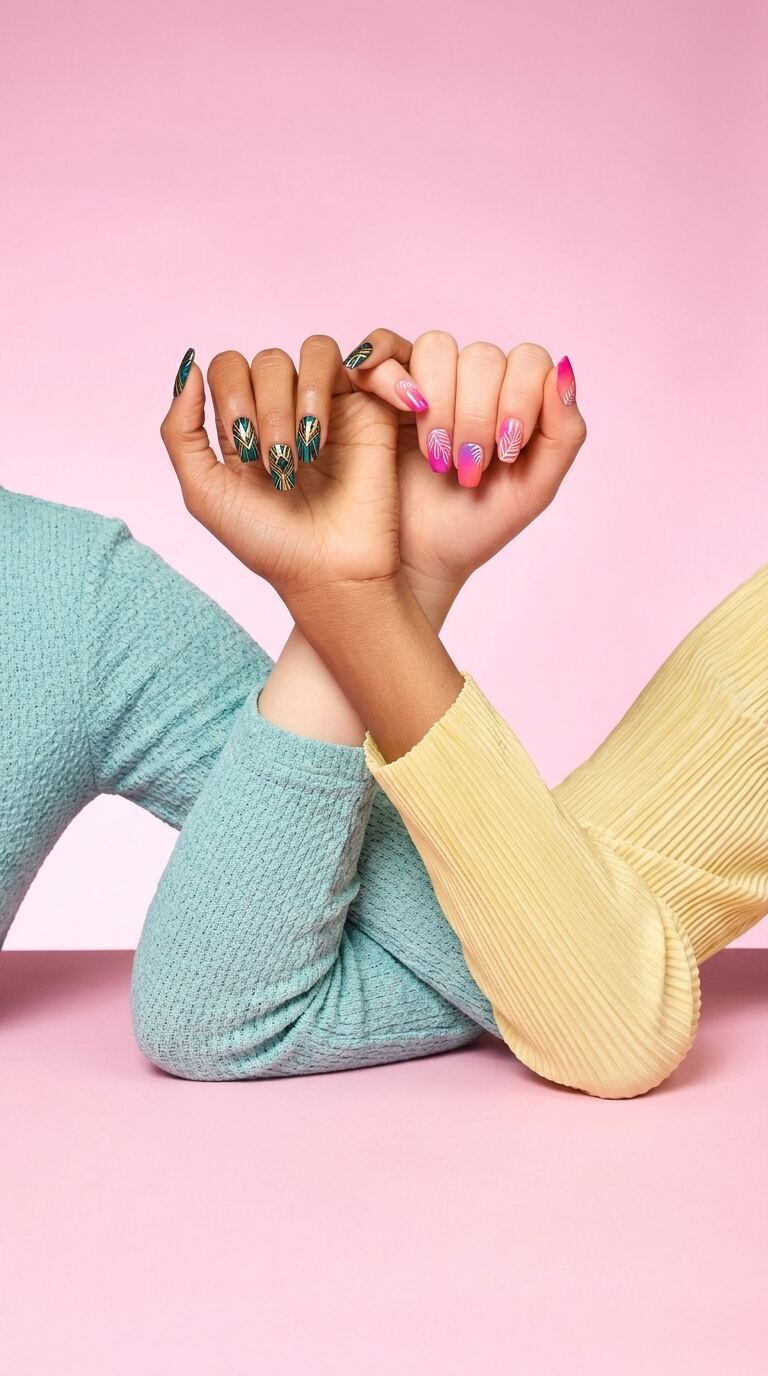
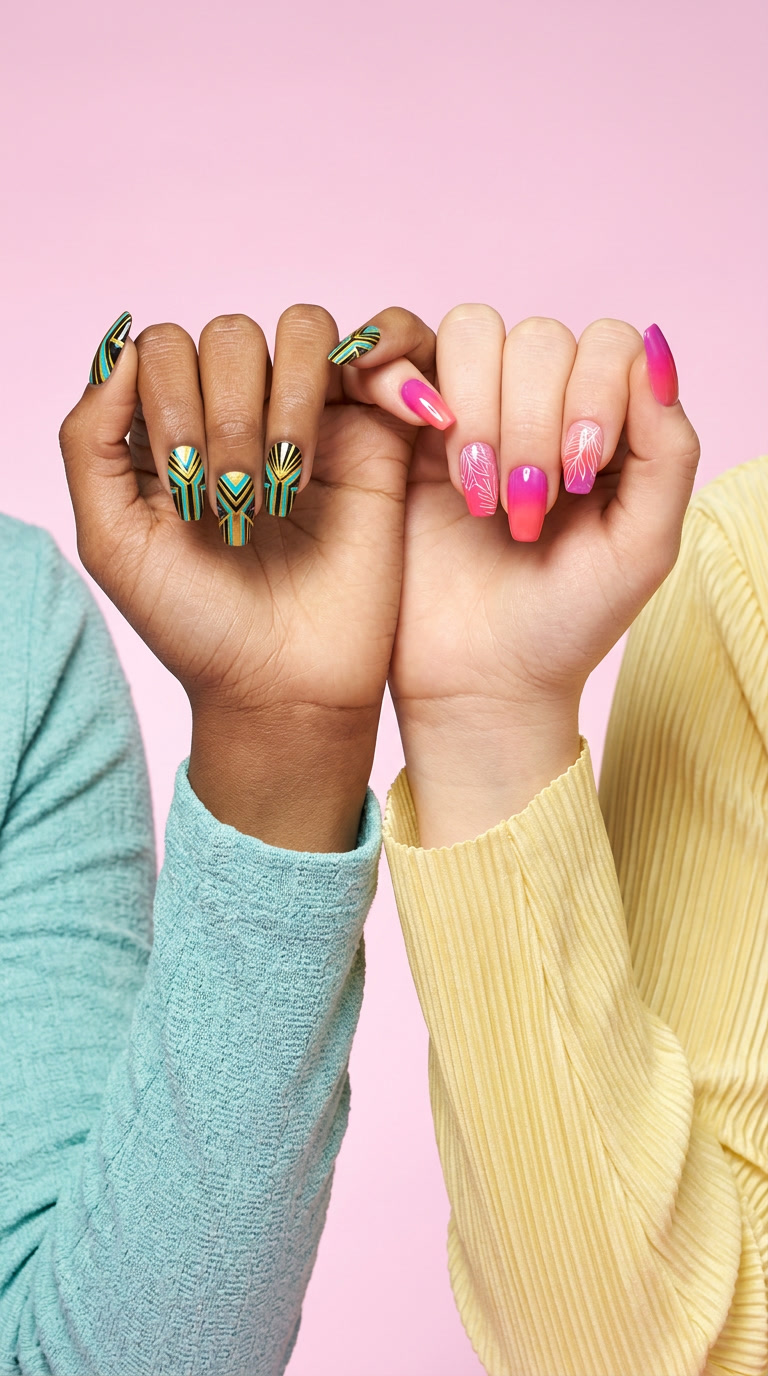
Update salon site content and assets

diff --git a/src/components/sections/Footer.tsx b/src/components/sections/Footer.tsx
@@ -5,11 +5,11 @@ import { useToast } from "@/hooks/use-toast";
 type Item = { label: string; href: string };
 const cols: { t: string; l: Item[] }[] = [
   { t: "Services", l: [
-    { label: "Russian Manicure", href: "#categories" },
-    { label: "Gel-X & Extensions", href: "#categories" },
-    { label: "Dip Powder", href: "#categories" },
-    { label: "Hard-Gel", href: "#categories" },
-    { label: "Pedicures", href: "#categories" },
+    { label: "Russian Manicure", href: "https://www.vagaro.com/deevanailboutique/services" },
+    { label: "Gel-X & Extensions", href: "https://www.vagaro.com/deevanailboutique/services" },
+    { label: "Dip Powder", href: "https://www.vagaro.com/deevanailboutique/services" },
+    { label: "Hard-Gel", href: "https://www.vagaro.com/deevanailboutique/services" },
+    { label: "Pedicures", href: "https://www.vagaro.com/deevanailboutique/services" },
     { label: "Gift Cards", href: "https://www.vagaro.com/deevanailboutique" },
   ]},
   { t: "Visit", l: [
@@ -19,19 +19,10 @@ const cols: { t: string; l: Item[] }[] = [
     { label: "Parking", href: "#visit" },
     { label: "Contact", href: "#visit" },
   ]},
-  { t: "Studio", l: [
-    { label: "Our Story", href: "#story" },
-    { label: "Non-Toxic Products", href: "#story" },
-    { label: "Sanitation", href: "#story" },
-    { label: "Press", href: "#" },
-    { label: "Careers", href: "#" },
-  ]},
   { t: "Info", l: [
     { label: "Pricing", href: "#pricing" },
-    { label: "Aftercare", href: "#" },
     { label: "Privacy Policy", href: "/privacy" },
     { label: "Terms of Use", href: "/terms" },
-    { label: "Accessibility", href: "#" },
   ]},
 ];
 
@@ -43,42 +34,7 @@ export const Footer = () => {
   return (
     <footer className="bg-secondary text-primary px-6 lg:px-12 pt-16 pb-10">
       <div className="mx-auto max-w-[1600px]">
-        {/* Newsletter strip */}
-        <div
-          id="newsletter"
-          className="border-y border-border py-10 mb-14 grid md:grid-cols-2 gap-6 md:gap-10 items-center"
-        >
-          <div>
-            <p className="text-xs uppercase tracking-[0.25em] text-brand-deep mb-2">Stay in touch</p>
-            <h3 className="font-serif text-2xl md:text-3xl leading-tight">
-              Get $15 off your first visit.
-            </h3>
-          </div>
-          <form
-            onSubmit={(e) => {
-              e.preventDefault();
-              toast({ title: "Welcome to DeeVa", description: "Check your inbox for your $15-off code." });
-              setEmail("");
-            }}
-            className="flex border-b border-primary/40 focus-within:border-primary transition"
-          >
-            <input
-              type="email"
-              required
-              value={email}
-              onChange={(e) => setEmail(e.target.value)}
-              placeholder="Your email"
-              aria-label="Email for newsletter"
-              className="flex-1 bg-transparent py-3 px-1 placeholder:text-muted-foreground outline-none text-primary"
-            />
-            <button
-              type="submit"
-              className="text-xs tracking-[0.25em] uppercase px-4 text-brand-deep hover:text-brand transition"
-            >
-              Subscribe →
-            </button>
-          </form>
-        </div>
+
 
         {/* Columns */}
         <div className="grid lg:grid-cols-5 lg:gap-12 mb-12">
@@ -91,7 +47,7 @@ export const Footer = () => {
               Premier nail boutique in Chicago’s West Loop. Non-toxic products. Walk-ins welcome.
             </p>
             <div className="flex gap-4 mt-6">
-              <a href="https://instagram.com/deeva.nailboutique" target="_blank" rel="noopener noreferrer" aria-label="Instagram" className="hover:opacity-60 transition">
+              <a href="https://www.instagram.com/deeva_nailboutique/" target="_blank" rel="noopener noreferrer" aria-label="Instagram" className="hover:opacity-60 transition">
                 <Instagram className="w-5 h-5" />
               </a>
               <a href="#" aria-label="Facebook" className="hover:opacity-60 transition"><Facebook className="w-5 h-5" /></a>

diff --git a/src/components/sections/Header.tsx b/src/components/sections/Header.tsx
@@ -1,6 +1,8 @@
 import { Phone, Menu, X, Instagram } from "lucide-react";
 import { useEffect, useState } from "react";
 import { createPortal } from "react-dom";
+import logoBlack from "@/assets/logos/Logo-black.webp";
+import logoWhite from "@/assets/logos/Logo-white.webp";
 
 const PHONE_DISPLAY = "(312) 841-7587";
 const PHONE_HREF = "tel:[phone redacted]";
@@ -74,14 +76,14 @@ export const Header = () => {
         {/* Center col — logo */}
         <a
           href="/"
-          className="flex flex-col items-center justify-self-center leading-none [text-shadow:0_1px_2px_rgba(0,0,0,0.35)]"
+          className="flex items-center justify-self-center leading-none"
+          aria-label="DeeVa Nail Boutique"
         >
-          <span className="font-serif font-bold text-[2.25rem] lg:text-[3rem] tracking-[0.15em] leading-none">
-            DeeVa
-          </span>
-          <span className="text-[9px] lg:text-[11px] tracking-[0.4em] uppercase opacity-80 mt-1">
-            Nail Boutique
-          </span>
+          <img
+            src={open || scrolled ? logoBlack : logoWhite}
+            alt="DeeVa Nail Boutique"
+            className="h-10 w-auto lg:h-12"
+          />
         </a>
 
         {/* Right col */}
@@ -91,6 +93,19 @@ export const Header = () => {
             className="hidden xl:inline-flex items-center px-5 py-2.5 rounded-full bg-brand text-brand-foreground hover:bg-brand-deep transition text-xs tracking-[0.25em] uppercase focus-visible:outline-none focus-visible:ring-2 focus-visible:ring-brand focus-visible:ring-offset-2"
           >
             Book now
+          </a>
+          <a
+            href="https://www.vagaro.com/deevanailboutique"
+            target="_blank"
+            rel="noopener noreferrer"
+            className={
+              `hidden xl:inline-flex items-center px-5 py-2.5 rounded-full transition text-xs tracking-[0.25em] uppercase focus-visible:outline-none focus-visible:ring-2 focus-visible:ring-offset-2 ` +
+              (open || scrolled
+                ? 'bg-white text-brand border border-brand hover:bg-brand hover:text-brand-foreground focus-visible:ring-brand'
+                : 'border border-white text-white hover:bg-white hover:text-brand focus-visible:ring-white')
+            }
+          >
+            Gift Card
           </a>
           <a
             href={PHONE_HREF}
@@ -155,6 +170,15 @@ export const Header = () => {
                 Book now
               </a>
               <a
+                href="https://www.vagaro.com/deevanailboutique"
+                target="_blank"
+                rel="noopener noreferrer"
+                onClick={() => setOpen(false)}
+                className="inline-flex items-center justify-center px-5 py-3 rounded-full border border-brand text-brand hover:bg-brand hover:text-brand-foreground transition text-xs tracking-[0.25em] uppercase"
+              >
+                Gift Card
+              </a>
+              <a
                 href={PHONE_HREF}
                 className="inline-flex items-center justify-center gap-2 px-5 py-3 rounded-full border border-primary text-primary hover:bg-primary hover:text-primary-foreground transition text-sm"
               >
@@ -162,14 +186,14 @@ export const Header = () => {
                 {PHONE_DISPLAY}
               </a>
               <a
-                href="https://instagram.com/deeva.nailboutique"
+                href="https://www.instagram.com/deeva_nailboutique/"
                 target="_blank"
                 rel="noopener noreferrer"
                 aria-label="Instagram"
                 className="inline-flex items-center justify-center gap-2 px-5 py-3 rounded-full border border-border text-primary hover:bg-secondary transition text-xs tracking-[0.25em] uppercase"
               >
                 <Instagram className="w-4 h-4" />
-                @deeva.nailboutique
+                @deeva_nailboutique
               </a>
             </div>
           </aside>

diff --git a/src/components/sections/GiftCard.tsx b/src/components/sections/GiftCard.tsx
@@ -1,0 +1,36 @@
+import giftCardImage from "@/assets/deeva-giftcard.webp";
+
+const GIFT_CARD_URL = "https://www.vagaro.com/deevanailboutique";
+
+export const GiftCard = () => (
+  <section className="px-6 py-20 lg:px-12 lg:py-28 bg-secondary/20">
+    <div className="mx-auto max-w-[1600px]">
+      <div className="mb-12 text-center lg:mb-14">
+        <p className="mb-3 text-xs uppercase tracking-[0.25em] text-brand-deep">Gift card</p>
+        <h2 className="font-serif text-4xl tracking-tight text-primary md:text-5xl lg:text-6xl">
+          A little extra for every gift.
+        </h2>
+        <div className="mt-5 flex flex-col items-center gap-1">
+          <div className="mt-2 text-xs md:text-sm text-muted-foreground font-normal">
+            <span className="block">Choose your gift card and get up to <span className="text-brand-deep font-semibold">15% bonus</span> for your loved ones.</span>
+          </div>
+        </div>
+      </div>
+
+      <a
+        href={GIFT_CARD_URL}
+        target="_blank"
+        rel="noopener noreferrer"
+        className="group mx-auto block max-w-2xl overflow-hidden rounded-xl bg-background shadow-xl transition-transform duration-300 hover:-translate-y-1"
+        aria-label="Open DeeVa gift card page on Vagaro"
+      >
+        <img
+          src={giftCardImage}
+          alt="DeeVa Nail Boutique gift card"
+          className="h-auto w-full transition-transform duration-700 group-hover:scale-[1.02]"
+          loading="lazy"
+        />
+      </a>
+    </div>
+  </section>
+);

diff --git a/src/components/sections/Testimonials.tsx b/src/components/sections/Testimonials.tsx
@@ -1,9 +1,22 @@
 import { useEffect, useState } from "react";
 
 const quotes = [
-  { q: "Cleanest manicure I’ve had in Chicago. Three weeks in and still flawless.", a: "Elena S., West Loop" },
-  { q: "The Russian manicure here is on another level — calm space, perfect shape.", a: "Marta L., River North" },
-  { q: "My new go-to for Gel-X. Beautiful studio, kind team, zero rush.", a: "Anya P., Fulton Market" },
+  {
+    q: "My first time here. I must say this is the first time in a very very long time that I have been fully satisfied with a manicure. First of the studio is welcoming and very clean. Aida was brilliantly meticulous. I didn't feel rushed at all like most other places and the end result was fabulous. Money very well spent. Ladies dont waste your time and money going elsewhere. This is the place you need to be if you enjoy pampering yourself.",
+    a: "Lauren J · 5 stars · 3 months ago"
+  },
+  {
+    q: "Love my girl Aida! Been going to her for over a year and I always leave satisfied. I usually get the builder gel and my nails last 3+ weeks and they never crack or chip. While they were under construction I went to another salon & paid DOUBLE the price for a builder gel & a pedicure. Safe to say I am so happy they’re open up again!",
+    a: "Anjelica Jauregui · 5 stars · 2 months ago"
+  },
+  {
+    q: "I LOVED IT!! it was exactly what I asked for and Aiza was very friendly and welcoming about my suggestions and made changes without any hesitation. These look better than the ones I had before (same red cat eye ones) but this one matches my skin tone perfectly. You should check them out!",
+    a: "Sonika M J · 5 stars · 2 months ago"
+  },
+  {
+    q: "My nails have never been so healthy or this long, and it's all thanks to Aiza! It's honestly been a game changer. I will never go back to acrylic nails. Hard gel is 100% the way to go. In my picture, those are my natural nails - no nail extensions! That's freaking awesome! I've had 3 sessions so far with Aiza. I'm so glad I found her! I will say it can be pricey, BUT they last a really long time and it's so much better than acrylic. Great customer service, as well!",
+    a: "Zhibek Almaz · 5 stars · 2 months ago"
+  },
 ];
 
 export const Testimonials = () => {
@@ -16,7 +29,7 @@ export const Testimonials = () => {
     <section id="reviews" className="py-24 lg:py-32 px-6 bg-accent">
       <div className="mx-auto max-w-3xl text-center">
         <p className="text-xs uppercase tracking-[0.25em] text-accent-foreground mb-8">Loved by you</p>
-        <blockquote key={i} className="font-serif text-3xl md:text-4xl lg:text-5xl leading-[1.2] text-accent-foreground text-balance animate-fade-in">
+        <blockquote key={i} className="font-serif text-xl md:text-2xl lg:text-3xl leading-[1.2] text-accent-foreground text-balance animate-fade-in">
           “{quotes[i].q}”
         </blockquote>
         <p className="mt-8 text-xs uppercase tracking-[0.25em] text-accent-foreground">{quotes[i].a}</p>

diff --git a/src/components/sections/InstagramGrid.tsx b/src/components/sections/InstagramGrid.tsx
@@ -1,9 +1,9 @@
-import ig1 from "@/assets/ig-1.jpg";
-import ig2 from "@/assets/ig-2.jpg";
-import ig3 from "@/assets/ig-3.jpg";
-import ig4 from "@/assets/ig-4.jpg";
-import ig5 from "@/assets/ig-5.jpg";
-import ig6 from "@/assets/ig-6.jpg";
+import ig1 from "@/assets/ig-1.webp";
+import ig2 from "@/assets/ig-2.webp";
+import ig3 from "@/assets/ig-3.webp";
+import ig4 from "@/assets/ig-4.webp";
+import ig5 from "@/assets/ig-5.webp";
+import ig6 from "@/assets/ig-6.webp";
 
 const imgs = [ig1, ig2, ig3, ig4, ig5, ig6];
 
@@ -14,12 +14,12 @@ export const InstagramGrid = () => (
         <p className="text-xs uppercase tracking-[0.25em] text-brand-deep mb-3">Follow our work</p>
         <h2 className="font-serif text-4xl md:text-5xl lg:text-6xl text-primary tracking-tight">
           <a
-            href="https://instagram.com/deeva.nailboutique"
+            href="https://www.instagram.com/deeva_nailboutique/"
             target="_blank"
             rel="noopener noreferrer"
-            className="inline-flex items-baseline gap-1 hover:text-brand-deep transition"
+            className="inline-flex items-baseline gap-1 hover:text-brand-deep transition text-primary"
           >
-            <span className="text-brand">@</span>deeva<span className="text-muted-foreground">.</span>nailboutique
+            <span className="text-primary">@deeva_nailboutique</span>
           </a>
         </h2>
       </div>

diff --git a/src/components/sections/Hero.tsx b/src/components/sections/Hero.tsx
@@ -3,9 +3,9 @@ import { ChevronLeft, ChevronRight } from "lucide-react";
 import slider1 from "@/assets/slider1.webp";
 import slider2 from "@/assets/slider2.webp";
 import slider3 from "@/assets/slider3.webp";
-import heroMobileNeon from "@/assets/hero-mobile-neon.jpg";
-import heroMobileSlide1 from "@/assets/hero-mobile-slide1.jpg";
-import heroNeonTips from "@/assets/hero-neon-tips.jpg";
+import heroMobileNeon from "@/assets/hero-mobile-neon.webp";
+import heroMobileSlide1 from "@/assets/hero-mobile-slide1.webp";
+import heroNeonTips from "@/assets/hero-neon-tips.webp";
 import { useIsMobile } from "@/hooks/use-mobile";
 
 const desktopSlides = [
@@ -67,7 +67,7 @@ export const Hero = () => {
           width={1920}
           height={1080}
           loading={idx === 0 ? "eager" : "lazy"}
-          fetchPriority={idx === 0 ? "high" : "low"}
+          {...({ fetchpriority: idx === 0 ? "high" : "low" } as any)}
           decoding="async"
           className={`absolute inset-0 w-full h-full object-cover transition-opacity duration-[1500ms] ${
             idx === i ? "opacity-100" : "opacity-0"
@@ -147,7 +147,7 @@ export const Hero = () => {
         href="#newsletter"
         className="hidden md:flex absolute right-0 top-1/2 -translate-y-1/2 items-center justify-center w-12 bg-accent text-accent-foreground text-xs tracking-[0.25em] uppercase py-6 [writing-mode:vertical-rl] rotate-180 hover:bg-sky transition"
       >
-        10% Off · Subscribe
+        10% off - gift card
       </a>
     </section>
   );

diff --git a/src/components/sections/ProductGrid.tsx b/src/components/sections/ProductGrid.tsx
@@ -1,7 +1,7 @@
-import p1 from "@/assets/product-1.jpg";
-import p2 from "@/assets/product-2.jpg";
-import p3 from "@/assets/product-3.jpg";
-import p4 from "@/assets/product-4.jpg";
+import p1 from "@/assets/product-1.webp";
+import p2 from "@/assets/product-2.webp";
+import p3 from "@/assets/product-3.webp";
+import p4 from "@/assets/product-4.webp";
 
 type Product = { img: string; tag?: string; name: string; type: string; price: string };
 

diff --git a/src/pages/Index.tsx b/src/pages/Index.tsx
@@ -11,6 +11,7 @@ const Pricing       = lazy(() => import("@/components/sections/Pricing").then(m 
 const Testimonials  = lazy(() => import("@/components/sections/Testimonials").then(m => ({ default: m.Testimonials })));
 const BrandStory    = lazy(() => import("@/components/sections/BrandStory").then(m => ({ default: m.BrandStory })));
 const InstagramGrid = lazy(() => import("@/components/sections/InstagramGrid").then(m => ({ default: m.InstagramGrid })));
+const GiftCard      = lazy(() => import("@/components/sections/GiftCard").then(m => ({ default: m.GiftCard })));
 const Visit         = lazy(() => import("@/components/sections/Visit").then(m => ({ default: m.Visit })));
 const FinalCTA      = lazy(() => import("@/components/sections/FinalCTA").then(m => ({ default: m.FinalCTA })));
 const Footer        = lazy(() => import("@/components/sections/Footer").then(m => ({ default: m.Footer })));
@@ -37,9 +38,11 @@ const Index = () => (
         <BrandStory />
         {/* 7. Living social proof */}
         <InstagramGrid />
-        {/* 8. Where to come */}
+        {/* 8. Gift cards */}
+        <GiftCard />
+        {/* 9. Where to come */}
         <Visit />
-        {/* 9. Final conversion push */}
+        {/* 10. Final conversion push */}
         <FinalCTA />
       </Suspense>
     </main>

diff --git a/src/components/sections/Categories.tsx b/src/components/sections/Categories.tsx
@@ -1,7 +1,7 @@
 import { useState } from "react";
 import { Plus } from "lucide-react";
-import manicureImg from "@/assets/cat-manicure.jpg";
-import pedicureImg from "@/assets/cat-pedicure.jpg";
+import manicureImg from "@/assets/cat-manicure.webp";
+import pedicureImg from "@/assets/cat-pedicure.webp";
 
 type Service = { name: string; desc: string; price: string };
 

diff --git a/src/App.tsx b/src/App.tsx
@@ -15,7 +15,7 @@ const App = () => (
     <TooltipProvider>
       <Toaster />
       <Sonner />
-      <BrowserRouter>
+      <BrowserRouter future={{ v7_relativeSplatPath: true, v7_startTransition: true }}>
         <Routes>
           <Route path="/" element={<Index />} />
           <Route path="/terms" element={<Terms />} />

diff --git a/src/components/sections/BrandStory.tsx b/src/components/sections/BrandStory.tsx
@@ -1,4 +1,4 @@
-import story from "@/assets/story.jpg";
+import story from "@/assets/story.webp";
 
 export const BrandStory = () => (
   <section id="discover" className="py-20 lg:py-28 px-6 lg:px-12 bg-secondary/40">